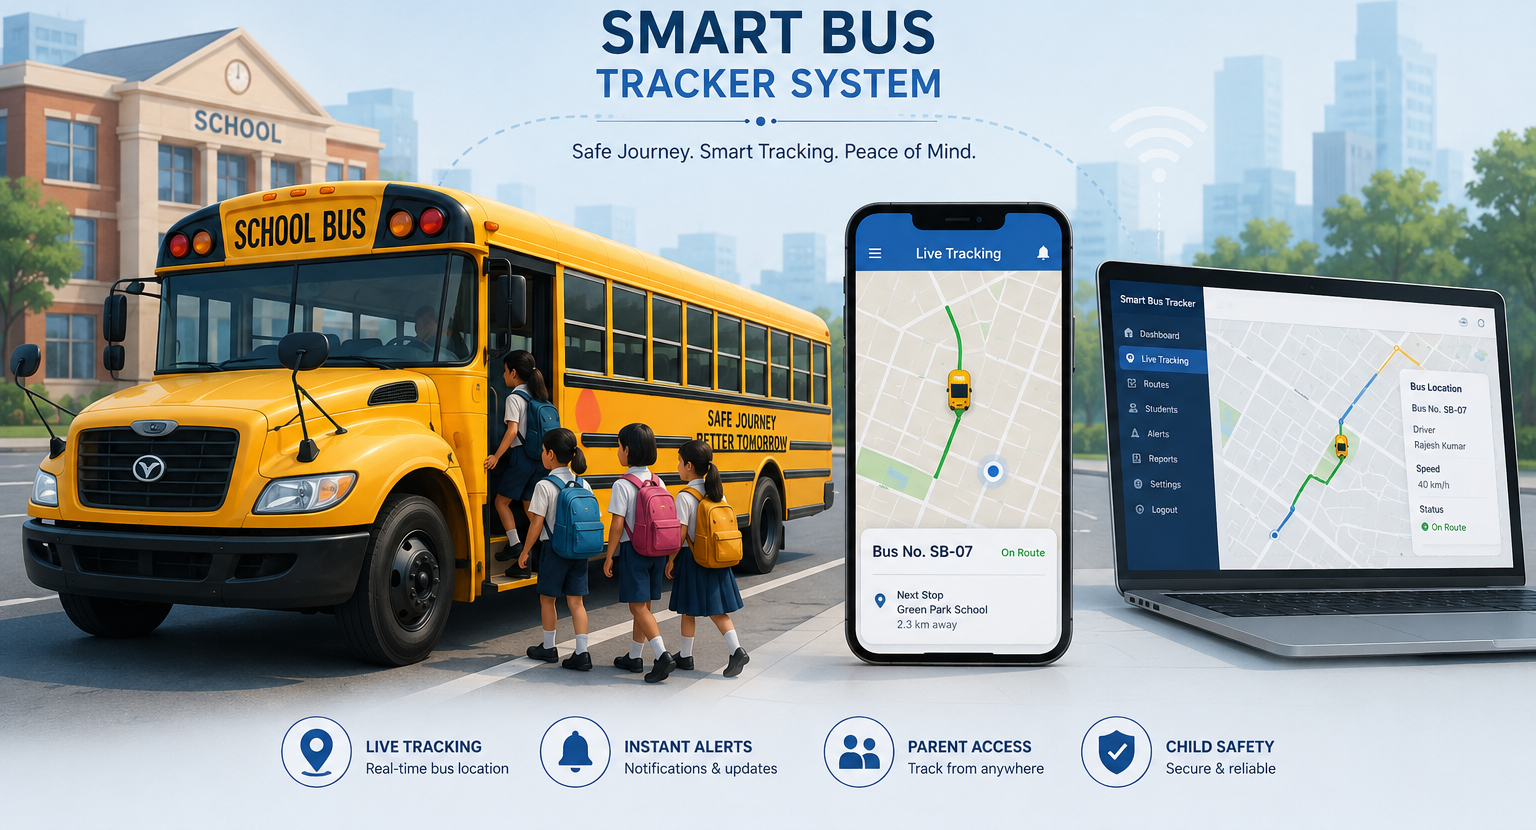
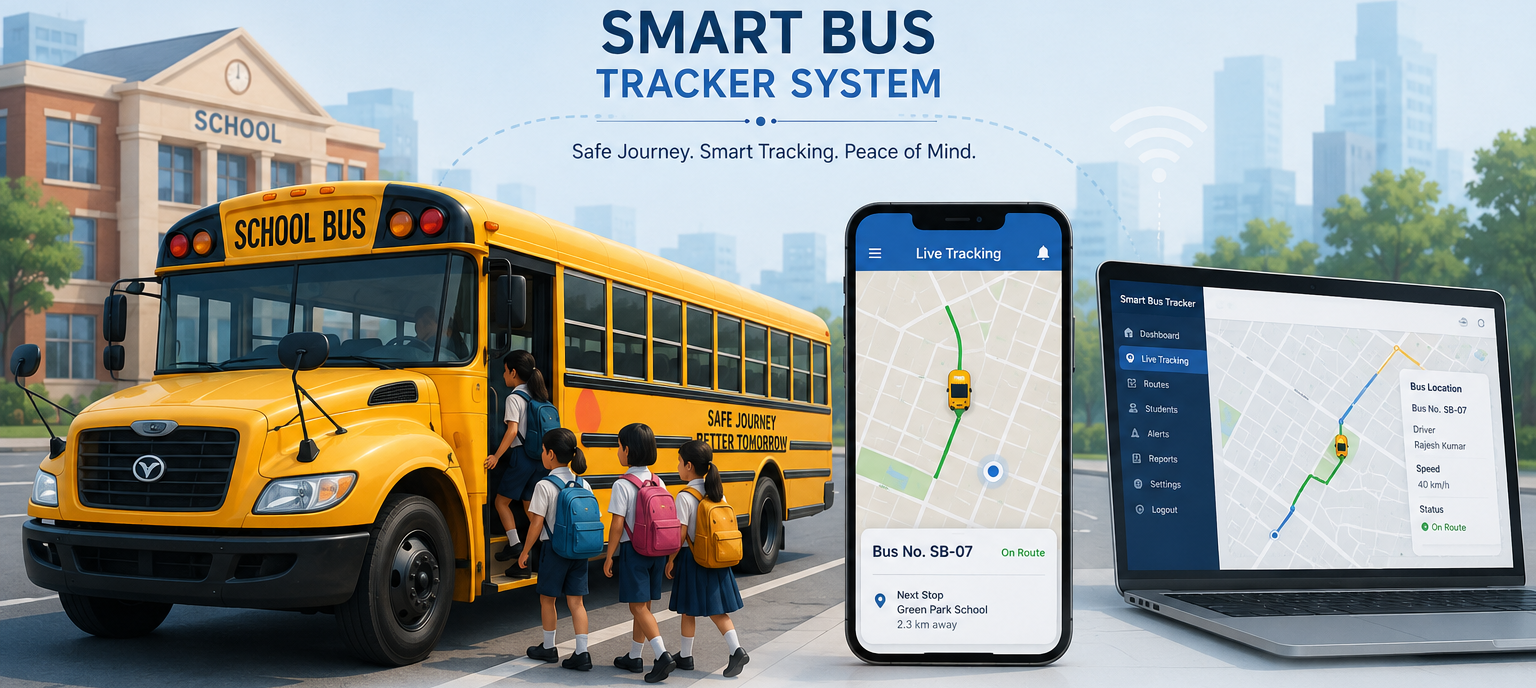
final

diff --git a/app/landingpage/components/Hero.tsx b/app/landingpage/components/Hero.tsx
@@ -1,38 +1,64 @@
 "use client";
 
-import { ArrowRight, Bus } from "lucide-react";
-import Link from "next/link";
 import Image from "next/image";
-import { Libre_Baskerville, Nunito } from "next/font/google";
+import { useEffect, useState } from "react";
 
-const libreBaskerville = Libre_Baskerville({
-  subsets: ["latin"],
-  weight: ["400", "700"],
-});
-
-const nunito = Nunito({
-  subsets: ["latin"],
-  weight: ["400", "600", "700"],
-});
 
 export default function Hero() {
+  const [isTablet, setIsTablet] = useState(false);
+
+  useEffect(() => {
+    const handleResize = () => {
+      setIsTablet(window.innerWidth < 1280);
+    };
+
+    handleResize();
+    window.addEventListener("resize", handleResize);
+
+    return () => {
+      window.removeEventListener("resize", handleResize);
+    };
+  }, []);
+
   return (
-    <section
-      id="home"
-      className="bg-[#fcfaf2] px-2 py-16 md:py-20 lg:py-20 overflow-hidden">
-      <div className="relative mx-auto w-full max-w-7xl rounded-4xl shadow-2xl overflow-visible">
+    <>
+      {isTablet ? (
+        <section
+          id="home"
+          className="bg-[#fcfaf2] px-2 py-16 md:py-20 lg:py-20 overflow-hidden">
+          <div className="relative mx-auto w-full rounded-4xl shadow-2xl overflow-visible">
 
-        <section className="relative h-[calc(112vh-56px)] w-full overflow-hidden">
-          <Image
-            src="/logreg.png"
-            alt="Hero Background"
-            fill
-            className="object-cover rounded-4xl"
-            priority
-          />
+            <section className="relative h-[calc(100vh-100px)] w-full overflow-hidden">
+              <Image
+                src="/logreg.png"
+                alt="Hero Background"
+                fill
+                className="object-cover rounded-4xl"
+                priority
+              />
+            </section>
+
+          </div>
         </section>
+      ) :
+        <section
+          id="home"
+          className="bg-[#fcfaf2] px-2 py-16 md:py-20 lg:py-20 overflow-hidden">
+          <div className="relative mx-auto w-full rounded-4xl shadow-2xl overflow-visible">
 
-      </div>
-    </section>
+            <section className="relative h-[calc(100vh-100px)] w-full overflow-hidden">
+              <Image
+                src="/logreg.png"
+                alt="Hero Background"
+                fill
+                className="object rounded-4xl"
+                priority
+              />
+            </section>
+
+          </div>
+        </section>
+      }
+    </>
   )
 }

diff --git a/app/landingpage/components/Contact.tsx b/app/landingpage/components/Contact.tsx
@@ -134,7 +134,7 @@ const Contact: React.FC = () => {
 
                   <button
                     type="submit"
-                    className={`${nunito.className} inline-flex items-center justify-center gap-2 rounded-xl bg-[#193CB8] px-4 py-2.5 text-sm font-semibold text-white transition hover:bg-blue-950`}
+                    className={`${nunito.className} inline-flex items-center justify-center gap-2 rounded-xl  px-4 py-2.5 text-sm font-semibold border border-[#FFFFFF] text-[#FFFFFF] transition hover:bg-blue-950`}
                   >
                     Send Request
                     <SendHorizontal className="w-4 h-4" />
